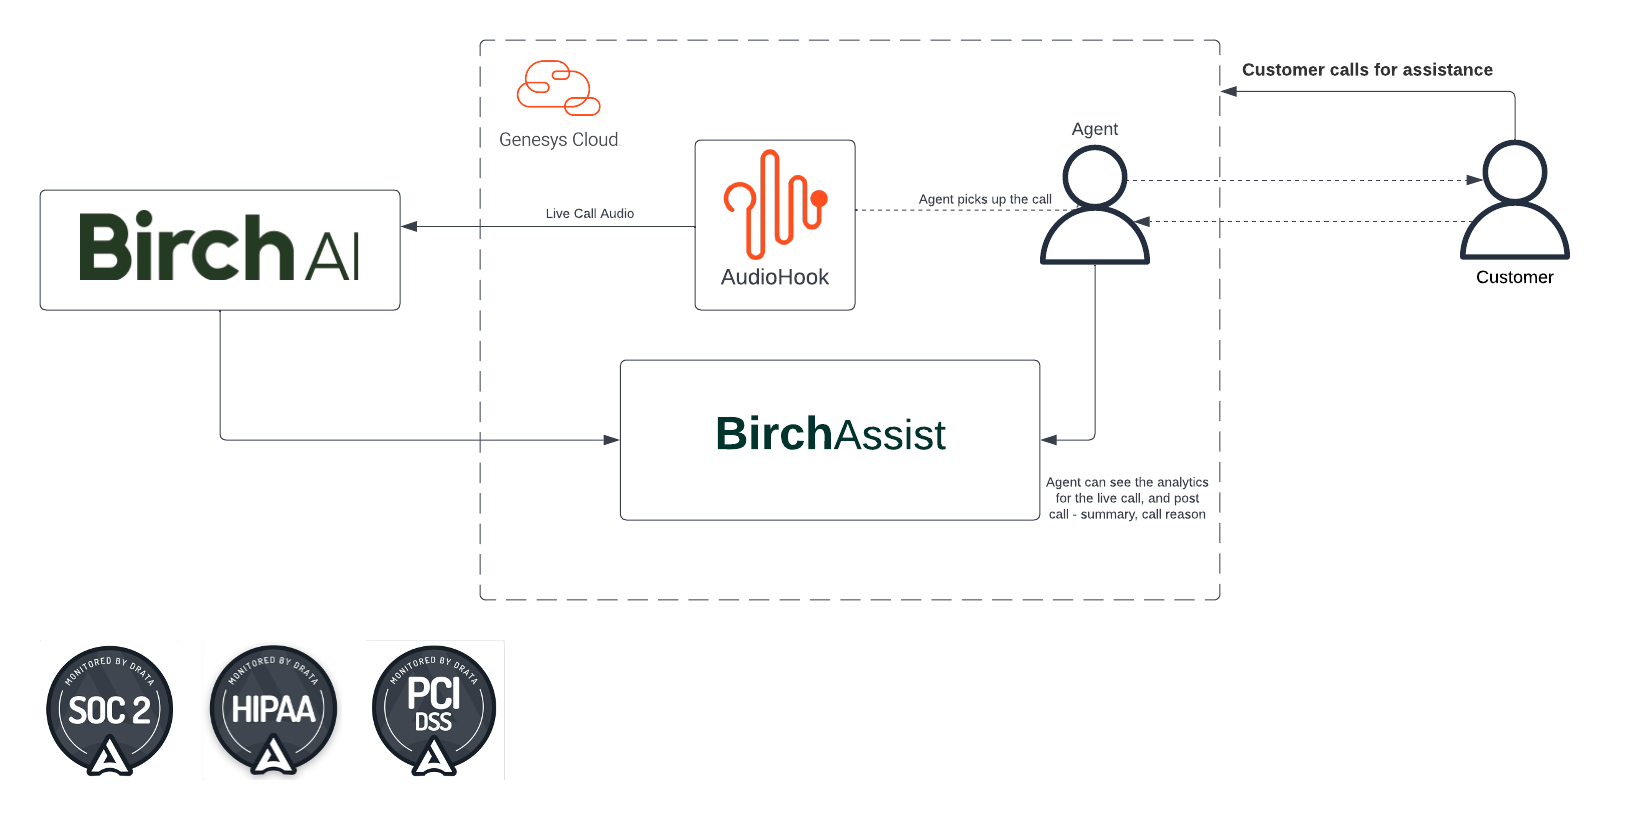
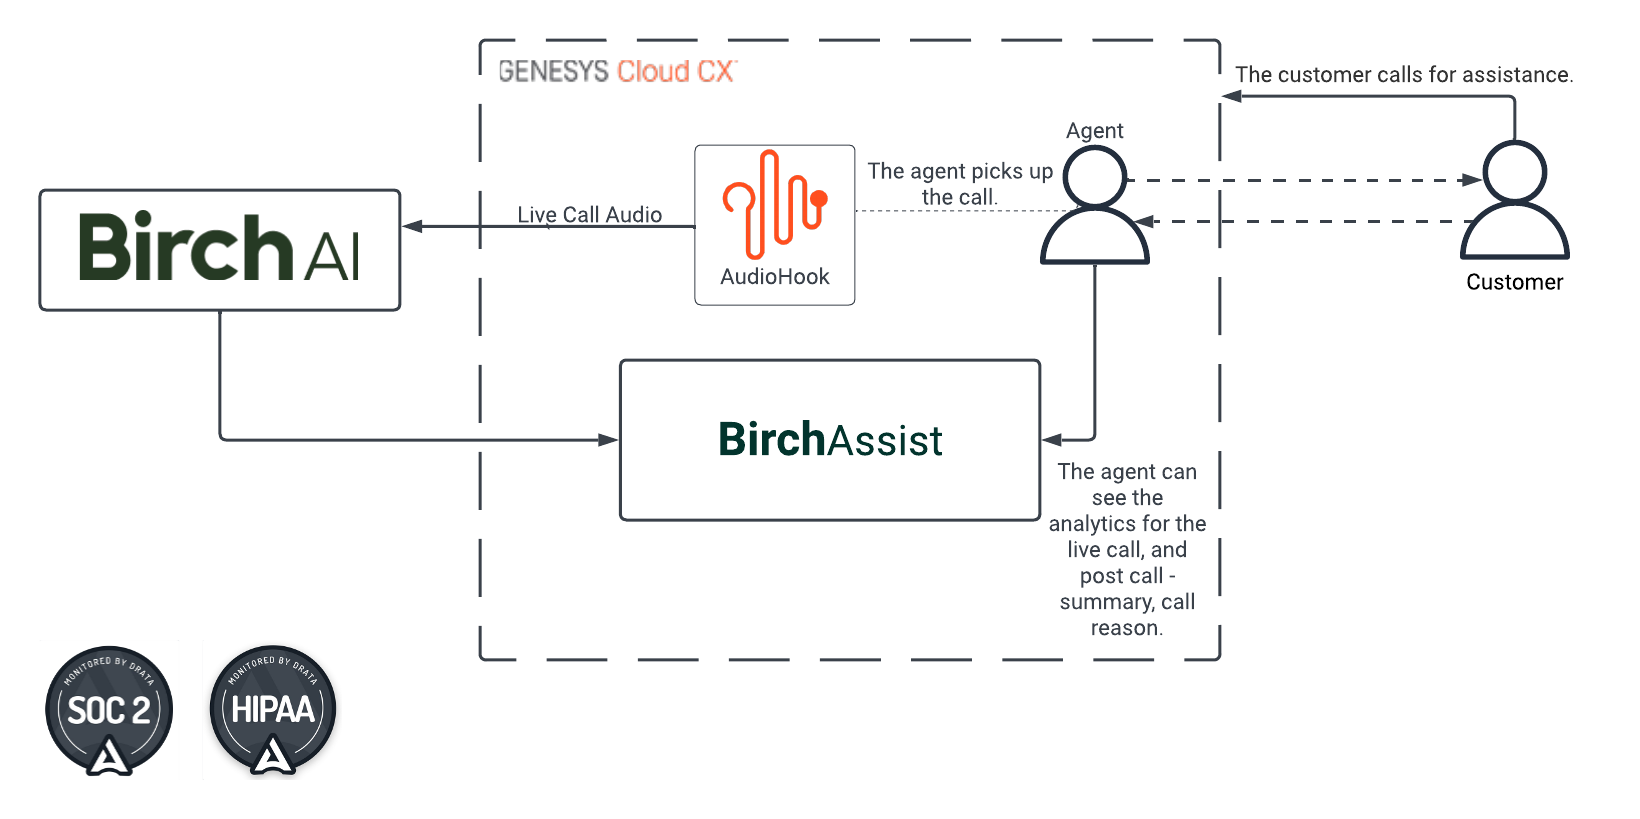
Updated LucidChart diagram.

diff --git a/README.md b/README.md
@@ -1,7 +1,10 @@
-# BirchAssist Blueprint
+# Integrating Birch Assist
 
-> View the full [BirchAssist Blueprint](https://developer.mypurecloud.com/blueprints/genesys-birch-assist-blueprint/ "Goes to the BirchAssist Blueprint") in the Genesys Cloud Developer Center.
+> View the [Birch Assist Blueprint](https://developer.mypurecloud.com/blueprints/genesys-birch-assist-blueprint/ "Goes to the Birch Assist Blueprint") in the Genesys Cloud Developer Center.
 
-In this Genesys Cloud Developer Blueprint, Birch AI is used to automate complex after-call tasks. Our **Live Call Analytics** includes Task Tracking, Sentiment Tracking, Field Extraction, Pacing guidance, among others, as well as **After-Call Work** that includes summaries, reasons for the call, and classifications. 
+In this Genesys Cloud Developer Blueprint, Birch AI is used to automate complex after-call tasks. Our **Live Call Analytics** includes Task Tracking, Sentiment Tracking, Field Extraction, Pacing guidance, among others, as well as **After-Call Work** that includes summaries, reasons for the call, and classifications.
+
+You can view the complete blueprint and download the sample files from [here](https://github.com/GenesysCloudBlueprints/genesys-birch-assist-blueprint "Genesys Cloud Birch Assist Blueprint").
+
 
 ![Birch Assist Integration](blueprint/images/genesys_birchai_workflow.png "Birch Assist Integration Overview")
